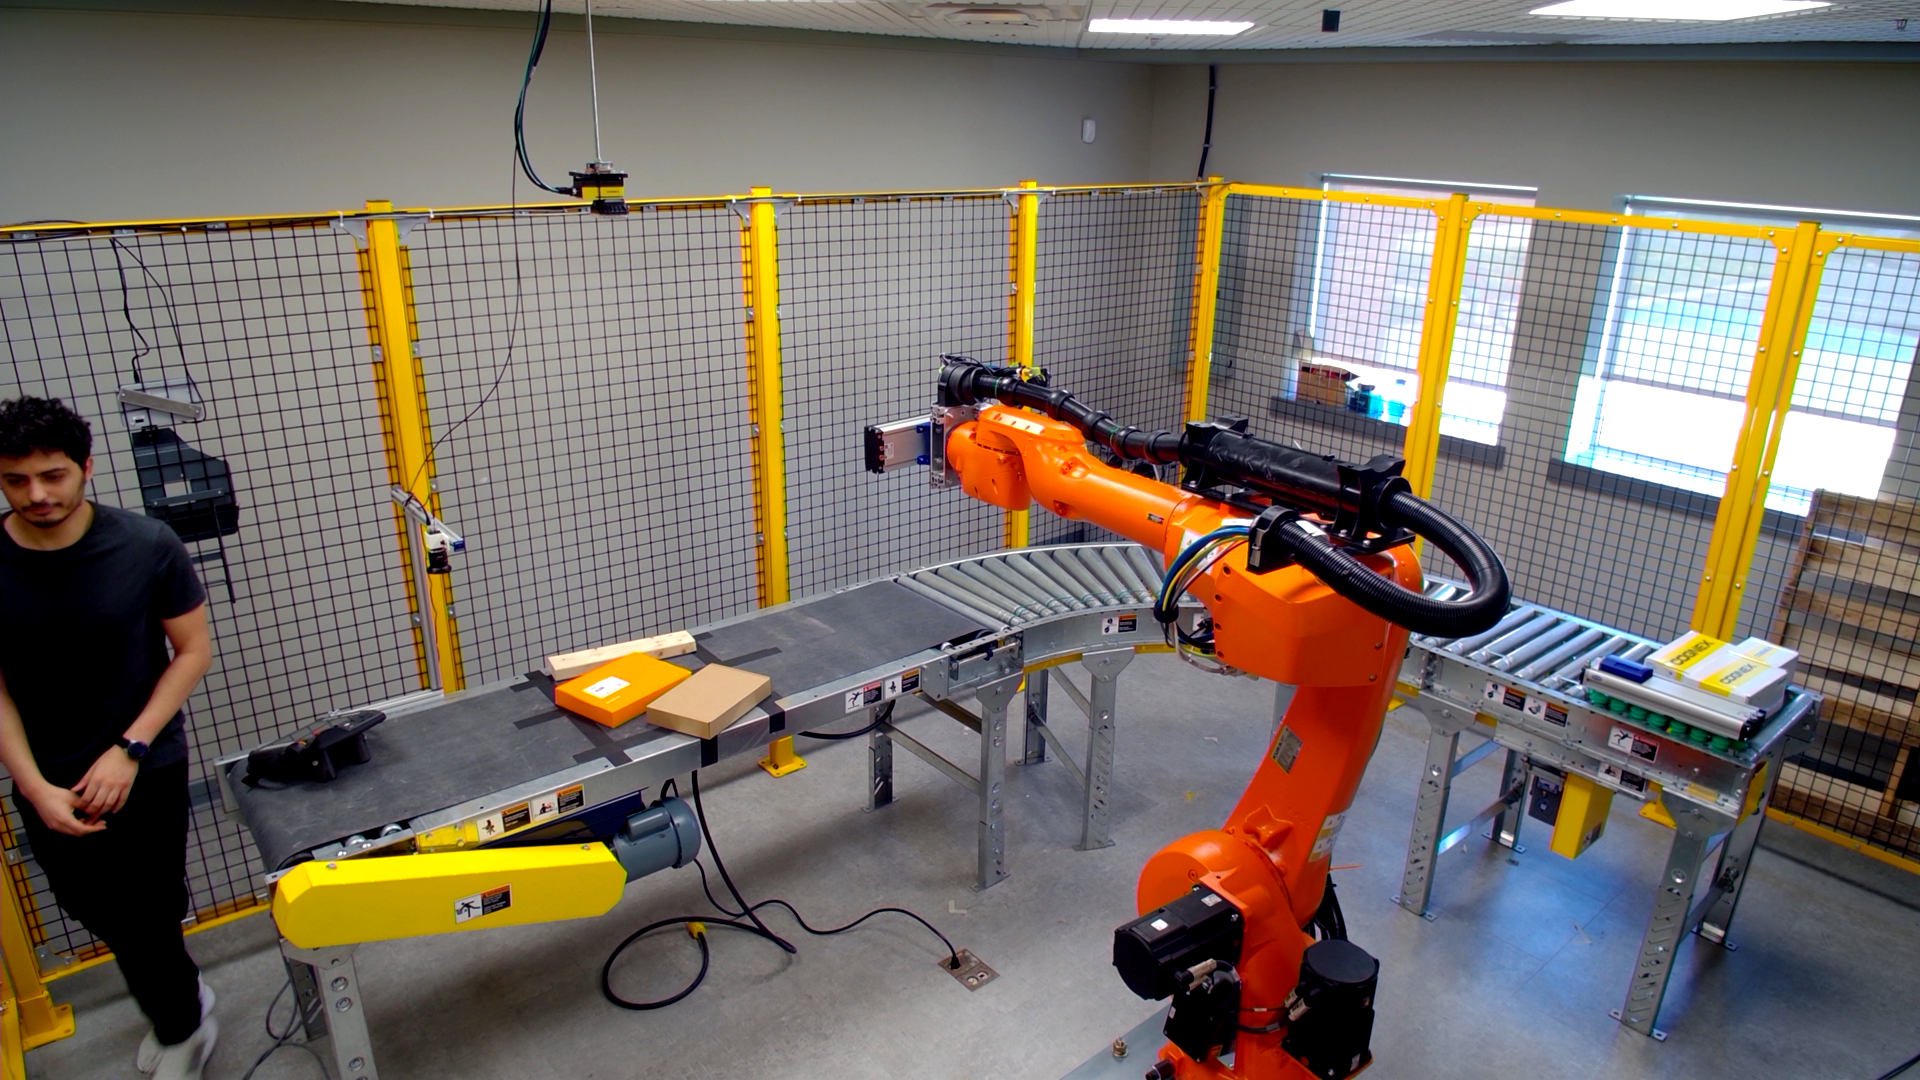
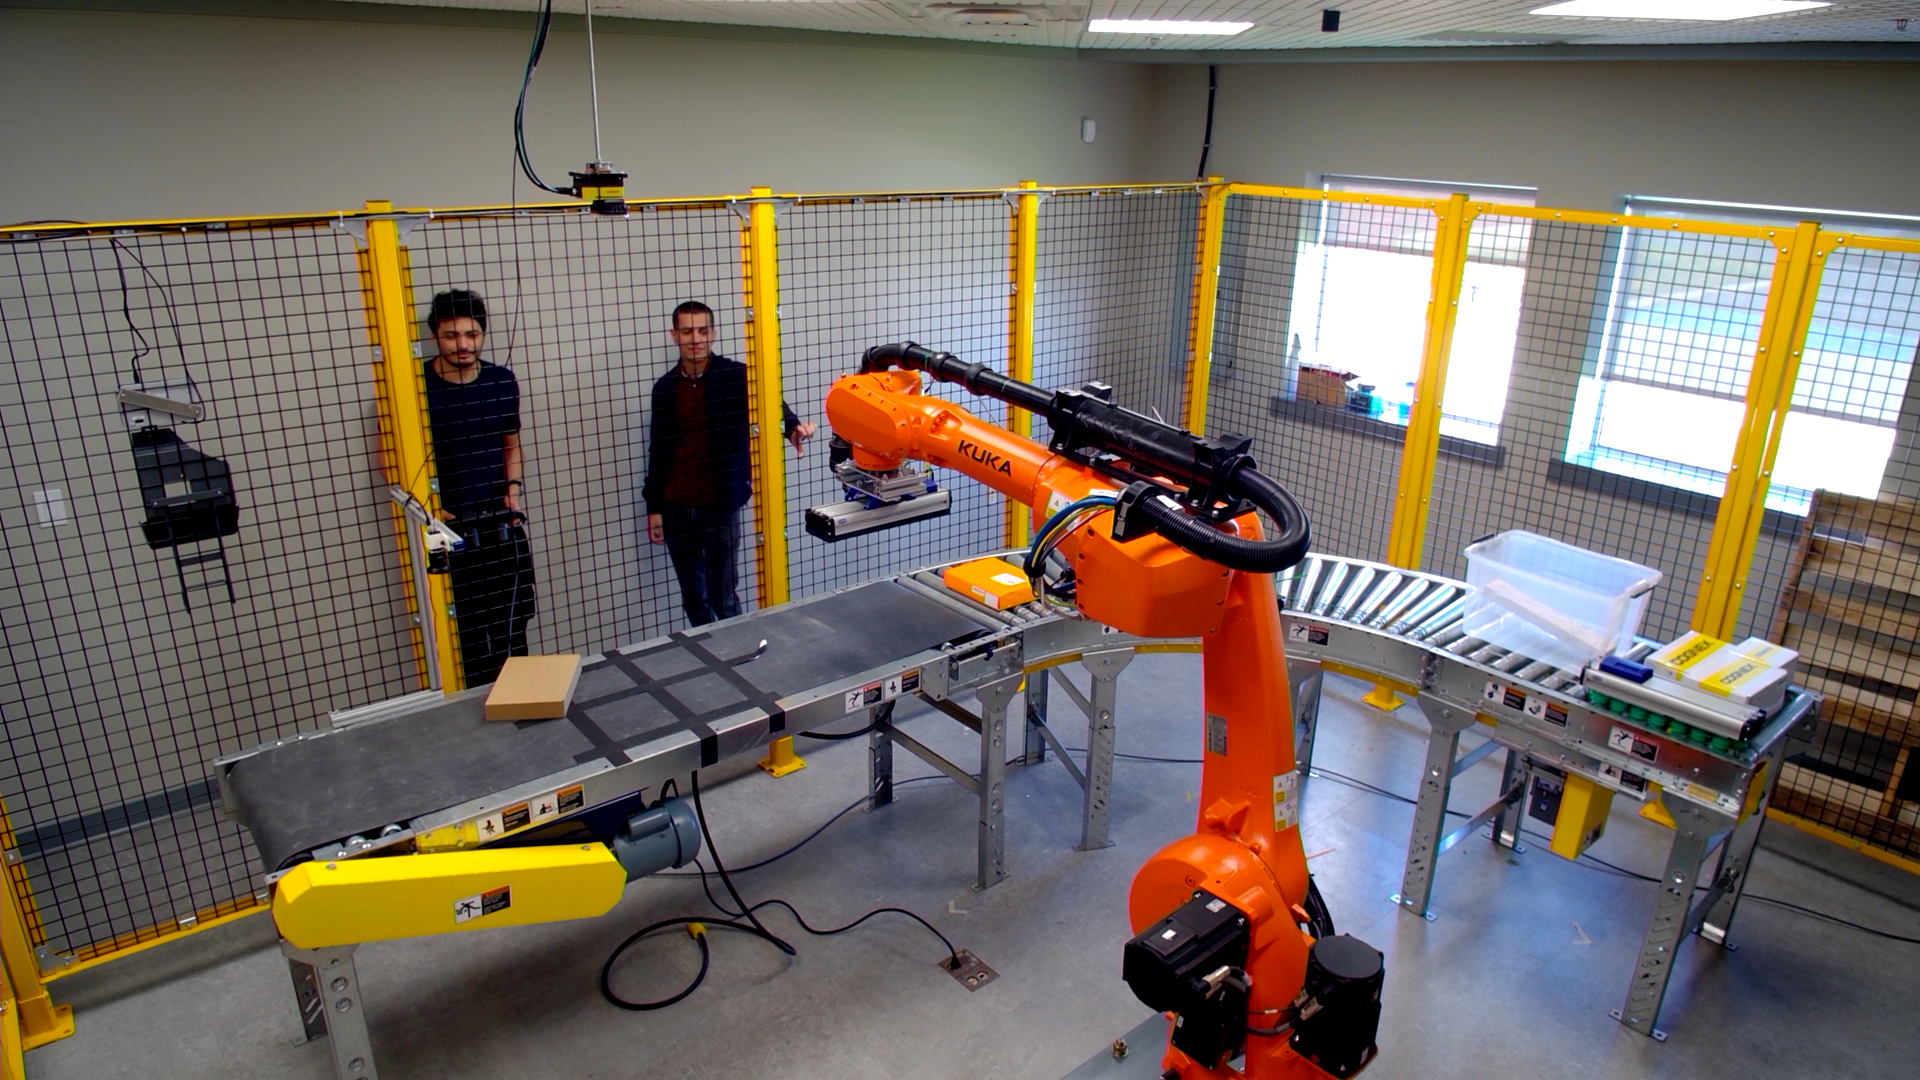
fix loading images tts

diff --git a/src/robot_control.py b/src/robot_control.py
@@ -10,25 +10,25 @@ from py_openshowvar import openshowvar
 
 
 # Mock openshowvar class for testing without actual robot connection
-class openshowvar:
-    def __init__(self, ip, port):
-        self.ip = ip
-        self.port = port
-        self.can_connect = True
-        print(f"Mock robot connection to {ip}:{port} initialized")
+# class openshowvar:
+#     def __init__(self, ip, port):
+#         self.ip = ip
+#         self.port = port
+#         self.can_connect = True
+#         print(f"Mock robot connection to {ip}:{port} initialized")
 
-    def read(self, variable, debug=False):
-        if debug:
-            print(f"Mock reading {variable}")
-        # Return a mock position for $POS_ACT
-        if variable == "$POS_ACT":
-            return b"E6POS: X 500.0, Y 300.0, Z 1200.0, A 180.0, B 0.0, C 180.0"
-        return b"0"
+#     def read(self, variable, debug=False):
+#         if debug:
+#             print(f"Mock reading {variable}")
+#         # Return a mock position for $POS_ACT
+#         if variable == "$POS_ACT":
+#             return b"E6POS: X 500.0, Y 300.0, Z 1200.0, A 180.0, B 0.0, C 180.0"
+#         return b"0"
 
-    def write(self, variable, value, debug=False):
-        if debug:
-            print(f"Mock writing {value} to {variable}")
-        return True
+#     def write(self, variable, value, debug=False):
+#         if debug:
+#             print(f"Mock writing {value} to {variable}")
+#         return True
 
 
 # === IP Configurations ===

diff --git a/src/simple_emotion_detector.py b/src/simple_emotion_detector.py
@@ -20,9 +20,9 @@ DeepFace = None
 
 
 def get_deepface():
-    speak_text("Chargement des modules de vision, cela prend quelques secondes.")
     global DeepFace
     if DeepFace is None:
+        speak_text("Chargement des modules de vision, cela prend quelques secondes.")
         from deepface import DeepFace as DF
 
         DeepFace = DF
